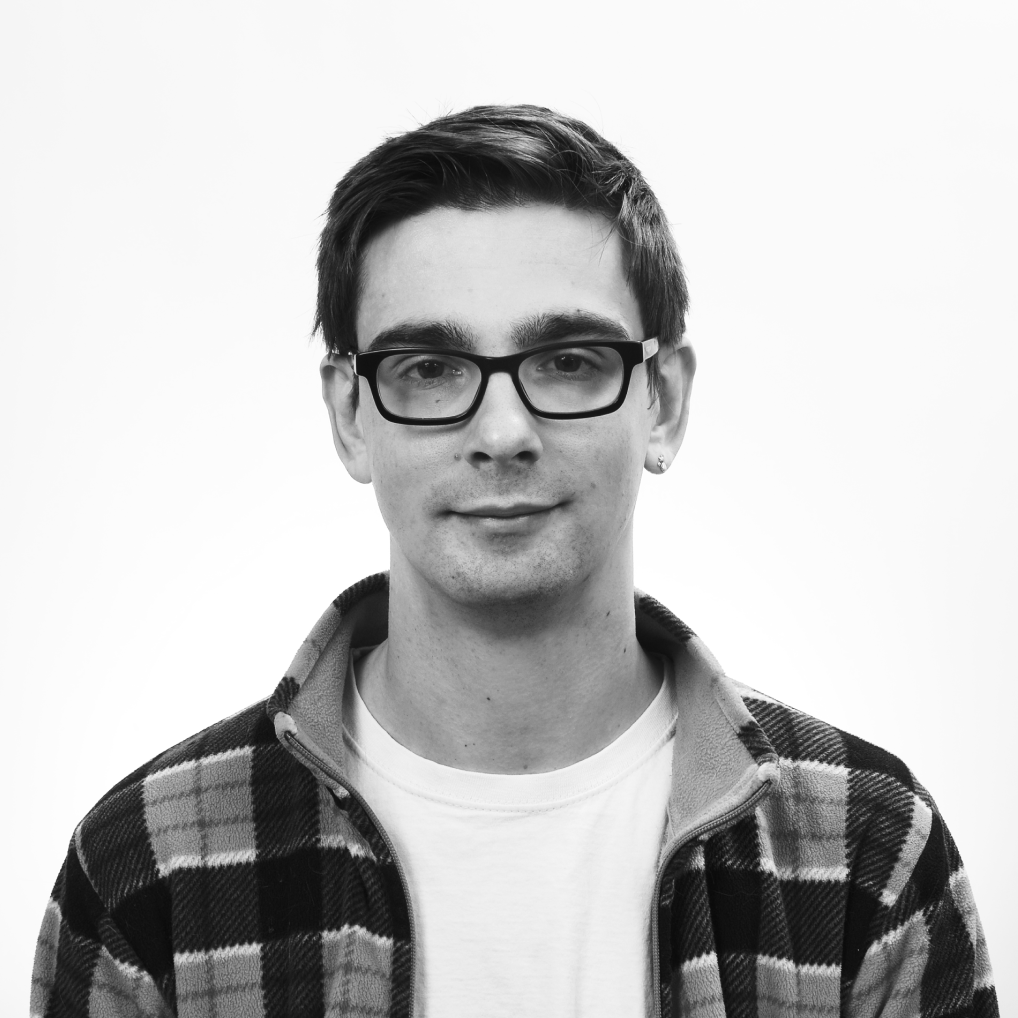
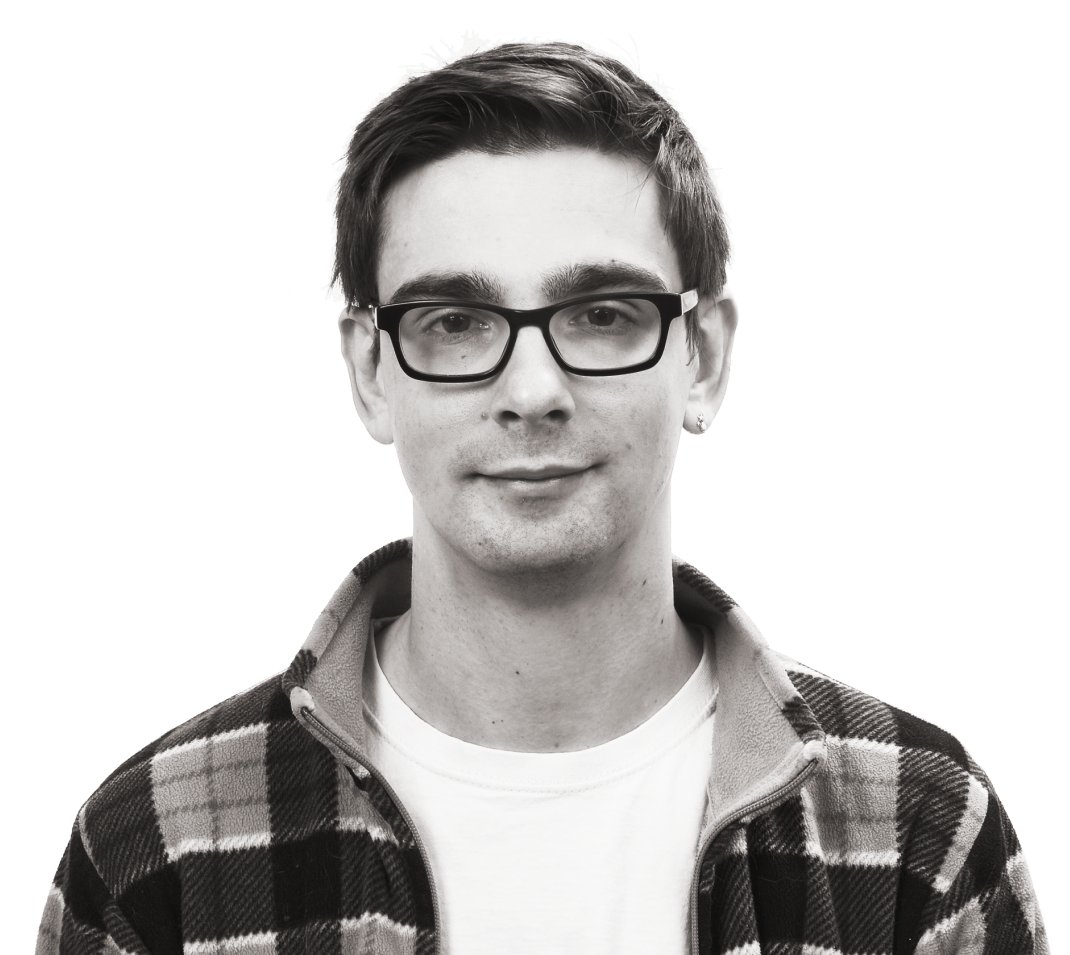
Assets + vertical tablet

Changed region(s): [[0.0305, 0.0304, 1.0, 1.0]]

diff --git a/src/components/projects.tsx b/src/components/projects.tsx
@@ -5,15 +5,16 @@ const Projects = styled.main`
   grid-auto-flow: dense;
   grid-template-columns: 1fr;
   grid-template-rows: repeat(auto-fill, 100vw);
-  overflow: hidden;
+  overflow-x: hidden;
 
   @media (min-width: ${props => props.theme.breakpoints.tablet}) {
-    grid-template-rows: repeat(auto-fill, 80vw);
+    grid-template-columns: repeat(2, 1fr);
+    grid-template-rows: repeat(auto-fill, 50vw);
   }
 
   @media (min-width: ${props => props.theme.breakpoints.tabletVertical}) {
     grid-column-start: 2;
-    grid-template-rows: repeat(auto-fill, 40vw);
+    grid-template-columns: 1fr;
   }
 
   @media (min-width: ${props => props.theme.breakpoints.desktop}) {

diff --git a/src/components/sidebar.tsx b/src/components/sidebar.tsx
@@ -13,12 +13,24 @@ const Sidebar = styled.div`
   }
 
   > h1 {
-    max-width: 40rem;
+    max-width: 30rem;
     padding: 0 1.25rem;
   }
   > p {
-    max-width: 40rem;
+    max-width: 30rem;
     padding: 0 1.25rem;
+  }
+
+  > .gatsby-image-wrapper {
+    max-width: 400px;
+
+    @media (min-width: ${props => props.theme.breakpoints.tablet}) {
+      margin-left: 25%;
+    }
+
+    @media (min-width: ${props => props.theme.breakpoints.tabletVertical}) {
+      margin-left: 0;
+    }
   }
 `
 export default Sidebar

diff --git a/src/components/grid-item.tsx b/src/components/grid-item.tsx
@@ -28,11 +28,7 @@ const GridCell = styled(Link)<GridCellProps>`
   }
 
   @media (min-width: ${props => props.theme.breakpoints.tablet}) {
-    min-height: 80vw;
-  }
-
-  @media (min-width: ${props => props.theme.breakpoints.tablet}) {
-    min-height: 40vw;
+    min-height: 50vw;
   }
 
   @media (min-width: ${props => props.theme.breakpoints.desktop}) {
